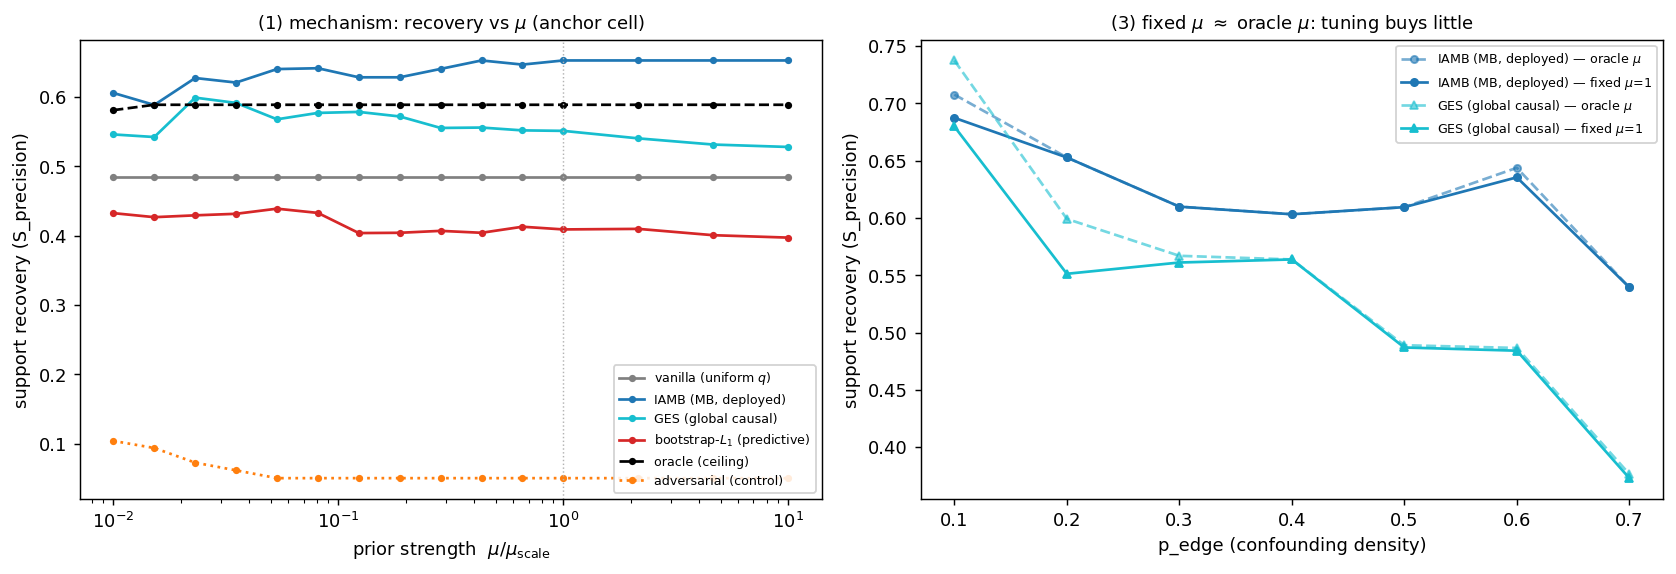
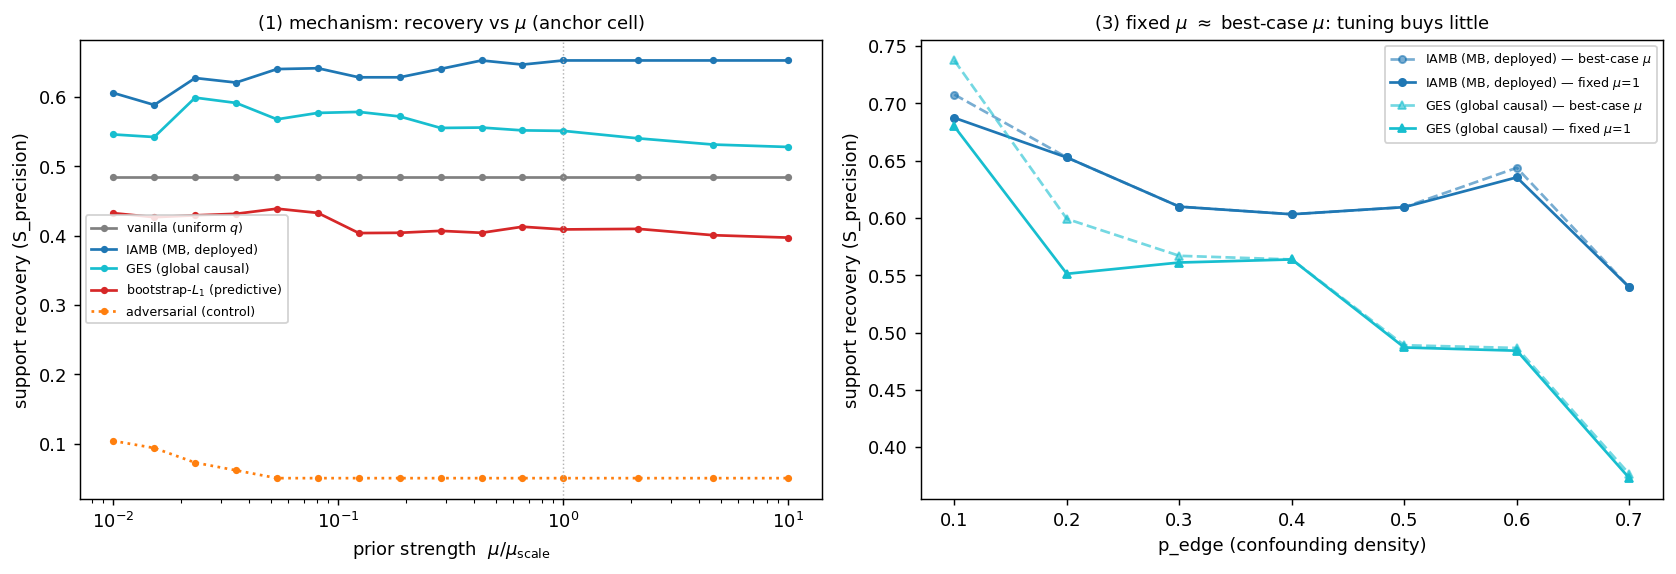
recovery + transport figs: drop the oracle source (MB sources beat it, so it was no ceiling); rename panel-3 oracle-mu to best-case-mu; update 4.1/4.3 prose

diff --git a/experiments/causal_prior/synthetic/recovery_figs.py b/experiments/causal_prior/synthetic/recovery_figs.py
@@ -6,10 +6,10 @@ recovery as a function of mu directly. three panels:
 
   1. mechanism (anchor cell): S_precision vs mu, all sources. causal rises and
      plateaus; predictive declines below the floor; uniform flat (do-no-harm);
-     adversarial collapses; oracle is the ceiling.
+     adversarial collapses.
   2. across-regime: S_precision vs {n, p, p_edge, k_star} at a single fixed mu_rel
      above the do-no-harm threshold. shows where the prior helps.
-  3. mu-robustness: recovery at the fixed mu vs the per-regime oracle mu
+  3. mu-robustness: recovery at the fixed mu vs the per-regime best-case mu
      (post-hoc argmax over the grid). they nearly coincide, so precise mu tuning
      buys little - the fixed choice is not cherry-picked.
 """
@@ -36,7 +36,6 @@ STYLE = {
     'iamb':         ('IAMB (MB, deployed)',   'C0',  '-'),
     'ges':          ('GES (global causal)',   'C9',  '-'),
     'bootstrap_l1': ('bootstrap-$L_1$ (predictive)', 'C3', '-'),
-    'oracle':       ('oracle (ceiling)',      'k',   '--'),
     'adversarial':  ('adversarial (control)', 'C1',  ':'),
 }
 AXES = [('n', 'p == 30 and k_star == 5 and p_edge == 0.2'),
@@ -92,24 +91,24 @@ def panel_regime(df, axes_row):
 
 
 def panel_robustness(df, ax):
-    """fixed-mu vs per-regime oracle-mu recovery across p_edge, for the deployed source."""
+    """fixed-mu vs per-regime best-case-mu recovery across p_edge, for the deployed source."""
     mu = _nearest_mu(df, FIXED_MU)
     d = df.query(AXES[2][1])  # p_edge slice
     for src, marker in [('iamb', 'o'), ('ges', '^')]:
         label, color, _ = STYLE[src]
         s = d[d.q_source == src]
-        # per p_edge: mean S_precision per mu (over seeds), oracle = max over mu, fixed = at mu
+        # per p_edge: mean S_precision per mu (over seeds); best = max over the mu grid, fixed = at mu
         per_mu = s.groupby(['p_edge', 'mu_relative'])['S_precision'].mean().reset_index()
-        oracle = per_mu.groupby('p_edge')['S_precision'].max()
+        best = per_mu.groupby('p_edge')['S_precision'].max()
         fixed = (per_mu[np.isclose(per_mu['mu_relative'], mu)]
                  .set_index('p_edge')['S_precision'])
-        ax.plot(oracle.index, oracle.values, marker=marker, ms=4, color=color, ls='--',
-                alpha=0.6, label=f'{label} — oracle $\\mu$')
+        ax.plot(best.index, best.values, marker=marker, ms=4, color=color, ls='--',
+                alpha=0.6, label=f'{label} — best-case $\\mu$')
         ax.plot(fixed.index, fixed.values, marker=marker, ms=4, color=color, ls='-',
                 label=f'{label} — fixed $\\mu$={mu:g}')
     ax.set_xlabel('p_edge (confounding density)')
     ax.set_ylabel('support recovery (S_precision)')
-    ax.set_title('(3) fixed $\\mu$ $\\approx$ oracle $\\mu$: tuning buys little', fontsize=10)
+    ax.set_title('(3) fixed $\\mu$ $\\approx$ best-case $\\mu$: tuning buys little', fontsize=10)
     ax.legend(fontsize=7, framealpha=0.85)
 
 

diff --git a/experiments/causal_prior/synthetic/recovery_shift_figs.py b/experiments/causal_prior/synthetic/recovery_shift_figs.py
@@ -25,7 +25,7 @@ BINS = [-0.01, 0.001, 0.1, 0.2, 0.3, 1.01]
 BINLAB = ['0', '(0,.1]', '(.1,.2]', '(.2,.3]', '>.3']
 OP_MU = {'vanilla': 0.0}   # vanilla operates at mu=0; all others at the strong prior
 TOP_MU = 2.0
-SRC_ORDER = ['oracle', 'ges', 'iamb', 'gs', 'pc', 'vanilla', 'bootstrap_l1', 'adversarial']
+SRC_ORDER = ['ges', 'iamb', 'gs', 'pc', 'vanilla', 'bootstrap_l1', 'adversarial']
 
 
 def load(csv=DEFAULT_CSV):

diff --git a/notes/pipeline.md b/notes/pipeline.md
@@ -144,13 +144,13 @@ Recovered blanket $\{j:q_j\ge0.5\}$ vs $S^\star$ over 280 cached cells (`loading
 | PC (global) | 0.62 | 0.21 | 0.42 |
 | bootstrap-$L_1$ (predictive) | 0.30 | 0.75 | 0.41 |
 
-Causal discovery recovers the true support. IAMB, which targets the Markov blanket directly, does so near-perfectly (F1 0.99). GES recovers the bulk of it (F1 0.74) but includes some non-parent ancestors at lower edge densities. PC degrades sharply as the graph becomes denser: constraint-based discovery is sample-starved on dense Gaussian DAGs and F1 falls to 0.42 at the Table 4.1 operating point. The predictive source has low precision because $L_1$ regularization includes confounders alongside causes and cannot distinguish them. The scorecard recovery sweep (`recovery_sweep.py`) quantifies the soft prior's effect on S_precision (fraction of selected features in $S^\star$) as a function of $\mu$. Support recovery is not a predictive quantity, so a CV-picked $\hat\mu$ (which targets held-out loss or AUC) is uninformative for it on balanced synthetic data; instead we report recovery over a fixed $\mu_\text{rel}$ grid and quote the operating value $\mu_\text{rel}=1$, above the do-no-harm threshold. Figure 3 shows recovery is flat across a broad $\mu$ band, so this choice is not load-bearing: a fixed $\mu$ matches the per-cell oracle $\mu$ within the resolution of the sweep. Both causal sources outperform the vanilla floor at every confounding density. The deployed MB source, IAMB, gains +0.15 to +0.44 over vanilla across $p_\text{edge}$, widening with confounding; GES tracks it (+0.07 to +0.29). The predictive bootstrap-$L_1$ sits at or below the vanilla floor (down to $-0.08$ at high confounding), never cleanly separating causes from the confounded correlates: the predictive source actively costs recovery where a causal one gains it, which is the §6.1 mediation point in its sharpest form. The effect requires a sparsity budget with headroom: at $K=k^\star$ vanilla already fills the budget with causal features and the prior has no room to move the support; the gain appears from $K\ge1.5k^\star$ and is roughly flat across larger budgets. The benefit is largest at small-to-moderate $n$ (IAMB +0.23 at $n=150$) and shrinks as $n$ grows, though IAMB keeps a margin (+0.10) even at $n=1000$ where the GES advantage has mostly closed. The p-sweep is sharpest: at $p=50$ the IAMB advantage grows to +0.48 (GES +0.35) because more candidate features give the prior more room to concentrate the $K$ slots on $S^\star$.
+Causal discovery recovers the true support. IAMB, which targets the Markov blanket directly, does so near-perfectly (F1 0.99). GES recovers the bulk of it (F1 0.74) but includes some non-parent ancestors at lower edge densities. PC degrades sharply as the graph becomes denser: constraint-based discovery is sample-starved on dense Gaussian DAGs and F1 falls to 0.42 at the Table 4.1 operating point. The predictive source has low precision because $L_1$ regularization includes confounders alongside causes and cannot distinguish them. The scorecard recovery sweep (`recovery_sweep.py`) quantifies the soft prior's effect on S_precision (fraction of selected features in $S^\star$) as a function of $\mu$. Support recovery is not a predictive quantity, so a CV-picked $\hat\mu$ (which targets held-out loss or AUC) is uninformative for it on balanced synthetic data; instead we report recovery over a fixed $\mu_\text{rel}$ grid and quote the operating value $\mu_\text{rel}=1$, above the do-no-harm threshold. Figure 3 shows recovery is flat across a broad $\mu$ band, so this choice is not load-bearing: a fixed $\mu$ matches the per-cell best-case $\mu$ (post-hoc argmax over the grid) within the resolution of the sweep. Both causal sources outperform the vanilla floor at every confounding density. The deployed MB source, IAMB, gains +0.15 to +0.44 over vanilla across $p_\text{edge}$, widening with confounding; GES tracks it (+0.07 to +0.29). The predictive bootstrap-$L_1$ sits at or below the vanilla floor (down to $-0.08$ at high confounding), never cleanly separating causes from the confounded correlates: the predictive source actively costs recovery where a causal one gains it, which is the §6.1 mediation point in its sharpest form. The effect requires a sparsity budget with headroom: at $K=k^\star$ vanilla already fills the budget with causal features and the prior has no room to move the support; the gain appears from $K\ge1.5k^\star$ and is roughly flat across larger budgets. The benefit is largest at small-to-moderate $n$ (IAMB +0.23 at $n=150$) and shrinks as $n$ grows, though IAMB keeps a margin (+0.10) even at $n=1000$ where the GES advantage has mostly closed. The p-sweep is sharpest: at $p=50$ the IAMB advantage grows to +0.48 (GES +0.35) because more candidate features give the prior more room to concentrate the $K$ slots on $S^\star$.
 
-**q-source robustness** (`q_robustness.py`, anchor cell $p=30, n=300, k^\star=5, p_\text{edge}=0.2$, 20 seeds). Ten sources are compared across five paradigms: constraint-global (PC_stable), constraint-local (IAMB, GS, inter-IAMB), score-based (GES), continuous-optimization (DAGMA), predictive-stability (bootstrap-$L_1$), and three controls (oracle, uniform, adversarial). Per-source AUC is flat (0.994 to 0.998 across non-adversarial sources, spread 0.001); the prior causes no accuracy degradation regardless of which $q$ is supplied, consistent with the do-no-harm property of §3. Support quality tracks $q$ quality. The MB-local learners rank highest because they target exactly the Markov blanket the prior encodes: GS achieves S_precision 0.671, inter-IAMB 0.620, IAMB 0.611. Oracle (0.591) lands just below them: an all-or-nothing hard $q$ is sometimes distrusted by log-loss CV, which sets $\hat\mu\to0$ rather than committing to it. DAGMA (continuous-optimization, 0.531) and GES (score-based, global, 0.519) follow, then PC_stable (0.502). Uniform $q$ (0.485) is the vanilla floor. Bootstrap-$L_1$ (0.421) sits below the floor at this anchor, because the predictive source at moderate confounding does not concentrate evidence selectively on $S^\star$. The adversarial source (0.352) falls furthest below the floor and carries the lowest AUC of any source (0.993 against a non-adversarial mean of 0.997); it is the only source that both degrades recovery and nudges accuracy down, though that accuracy dip still sits inside the 0.001 across-source spread.
+**q-source robustness** (`q_robustness.py`, anchor cell $p=30, n=300, k^\star=5, p_\text{edge}=0.2$, 20 seeds). Ten sources are compared across five paradigms: constraint-global (PC_stable), constraint-local (IAMB, GS, inter-IAMB), score-based (GES), continuous-optimization (DAGMA), predictive-stability (bootstrap-$L_1$), and two controls (uniform, adversarial). Per-source AUC is flat (0.994 to 0.998 across non-adversarial sources, spread 0.001); the prior causes no accuracy degradation regardless of which $q$ is supplied, consistent with the do-no-harm property of §3. Support quality tracks $q$ quality. The MB-local learners rank highest because they target exactly the Markov blanket the prior encodes: GS achieves S_precision 0.671, inter-IAMB 0.620, IAMB 0.611. DAGMA (continuous-optimization, 0.531) and GES (score-based, global, 0.519) follow, then PC_stable (0.502). Uniform $q$ (0.485) is the vanilla floor. Bootstrap-$L_1$ (0.421) sits below the floor at this anchor, because the predictive source at moderate confounding does not concentrate evidence selectively on $S^\star$. The adversarial source (0.352) falls furthest below the floor and carries the lowest AUC of any source (0.993 against a non-adversarial mean of 0.997); it is the only source that both degrades recovery and nudges accuracy down, though that accuracy dip still sits inside the 0.001 across-source spread.
 
 **q-corruption graceful degradation** (`q_corruption.py`, same anchor, starting from the GES prior, 20 seeds, 11 levels). The experiment interpolates $q$ from the GES prior toward uniform noise and scores both S_precision and held-out AUC at each level. Starting from S_precision 0.565 at corruption 0 (the GES source, consistent with the robustness panel's 0.519 up to the seed pool), recovery declines gradually to 0.463 at corruption 1.0 (pure noise $q$, approaching the vanilla floor of roughly 0.49). AUC stays flat throughout: 0.997 at corruption 0, 0.996 at corruption 1.0, a total spread of 0.001. CV tracks the degradation and lowers $\hat\mu$ as the prior becomes less informative, protecting accuracy automatically. A bad $q$ costs accuracy nothing; recovery slides to the no-information floor smoothly, not catastrophically.
 
-> **[Figure 3 — PLACEHOLDER]** Two parts, no CV (recovery is not a predictive quantity, so a CV-picked $\mu$ is arbitrary on synthetic data; we characterise recovery as a function of $\mu$ directly). **(a) Mechanism + robustness:** left, S_precision vs $\mu_\text{rel}$ at the anchor cell for every source — IAMB and GES rise and plateau, bootstrap-$L_1$ declines *below* the vanilla floor (selectivity is the mediator), uniform is flat (do-no-harm), adversarial collapses, oracle is the ceiling; right, S_precision at a fixed $\mu_\text{rel}=1$ vs the per-regime oracle $\mu$ across $p_\text{edge}$ — they nearly coincide, so precise $\mu$ tuning buys little. **(b) Across-regime:** S_precision vs {n, p, p_edge, k_star} at fixed $\mu_\text{rel}=1$, IAMB/GES/bootstrap-$L_1$/vanilla floor. Source: `experiments/causal_prior/synthetic/recovery_figs.py` → `recovery_mechanism_and_robustness.png`, `recovery_vs_regime.png`.
+> **[Figure 3 — PLACEHOLDER]** Two parts, no CV (recovery is not a predictive quantity, so a CV-picked $\mu$ is arbitrary on synthetic data; we characterise recovery as a function of $\mu$ directly). **(a) Mechanism + robustness:** left, S_precision vs $\mu_\text{rel}$ at the anchor cell for every source — IAMB and GES rise and plateau, bootstrap-$L_1$ declines *below* the vanilla floor (selectivity is the mediator), uniform is flat (do-no-harm), adversarial collapses; right, S_precision at a fixed $\mu_\text{rel}=1$ vs the per-regime best-case $\mu$ across $p_\text{edge}$ — they nearly coincide, so precise $\mu$ tuning buys little. **(b) Across-regime:** S_precision vs {n, p, p_edge, k_star} at fixed $\mu_\text{rel}=1$, IAMB/GES/bootstrap-$L_1$/vanilla floor. Source: `experiments/causal_prior/synthetic/recovery_figs.py` → `recovery_mechanism_and_robustness.png`, `recovery_vs_regime.png`.
 
 ### 4.2 Soft prior vs hard causal feature selection (public benchmarks)
 
@@ -196,7 +196,7 @@ The construction places correlate associations under the shift by design. What i
 
 - **In-distribution parity, out-of-environment spread.** All operational sources reach in-distribution AUC $\approx0.99$ (spread 0.009); the same models spread by 0.060 in transport gap at $\gamma=-1$, while the adversarial control blows out to 0.237.
 - **Transport gap and correlate reliance.** Pooled over cells, the transport gap rises with how much the selected support rests on correlate features (Pearson $r=0.58$); supports free of correlates transport with gap near zero.
-- **The Markov-blanket sources transport best.** GS has the smallest transport gap (0.002) and the highest purely-causal rate (78%); IAMB follows (gap 0.004, 63%); the global GES matches them (gap 0.014, correlate reliance 0.034, 75% pure). All three beat vanilla (gap 0.049), the constraint-global PC (0.062), and the predictive bootstrap-$L_1$ (0.046), and reach the oracle ceiling (0.007). These are the sources the method deploys (§2.6) and the ones that recover best in Section 4.1, so a single source family wins both recovery and transport. The adversarial confounder-peaked prior collapses (gap 0.237) and degrades monotonically with confounding.
+- **The Markov-blanket sources transport best.** GS has the smallest transport gap (0.002) and the highest purely-causal rate (78%); IAMB follows (gap 0.004, 63%); the global GES matches them (gap 0.014, correlate reliance 0.034, 75% pure). All three beat vanilla (gap 0.049), the constraint-global PC (0.062), and the predictive bootstrap-$L_1$ (0.046). These are the sources the method deploys (§2.6) and the ones that recover best in Section 4.1, so a single source family wins both recovery and transport. The adversarial confounder-peaked prior collapses (gap 0.237) and degrades monotonically with confounding.
 
 > **[Figure 2 — PLACEHOLDER]** Three-panel transport composite. (a) Synthetic: transport gap vs correlate reliance, binned, pooled over all sources/seeds/densities (Pearson r = 0.58). (b) Semi-synthetic on real CA income features: transport gap vs $\mu$, vanilla flat, causal collapsing as the injected spurious correlate is dropped (PR 0.050 → 0.017, SD 0.092 → 0.063). (c) Real folktables CA→PR/SD: all arms track vanilla — do-no-harm confirmed when no shiftable correlate exists. Source: `experiments/causal_prior/real/fig_transport.py` → `results/causal_prior/real/fig_transport.png`.
 